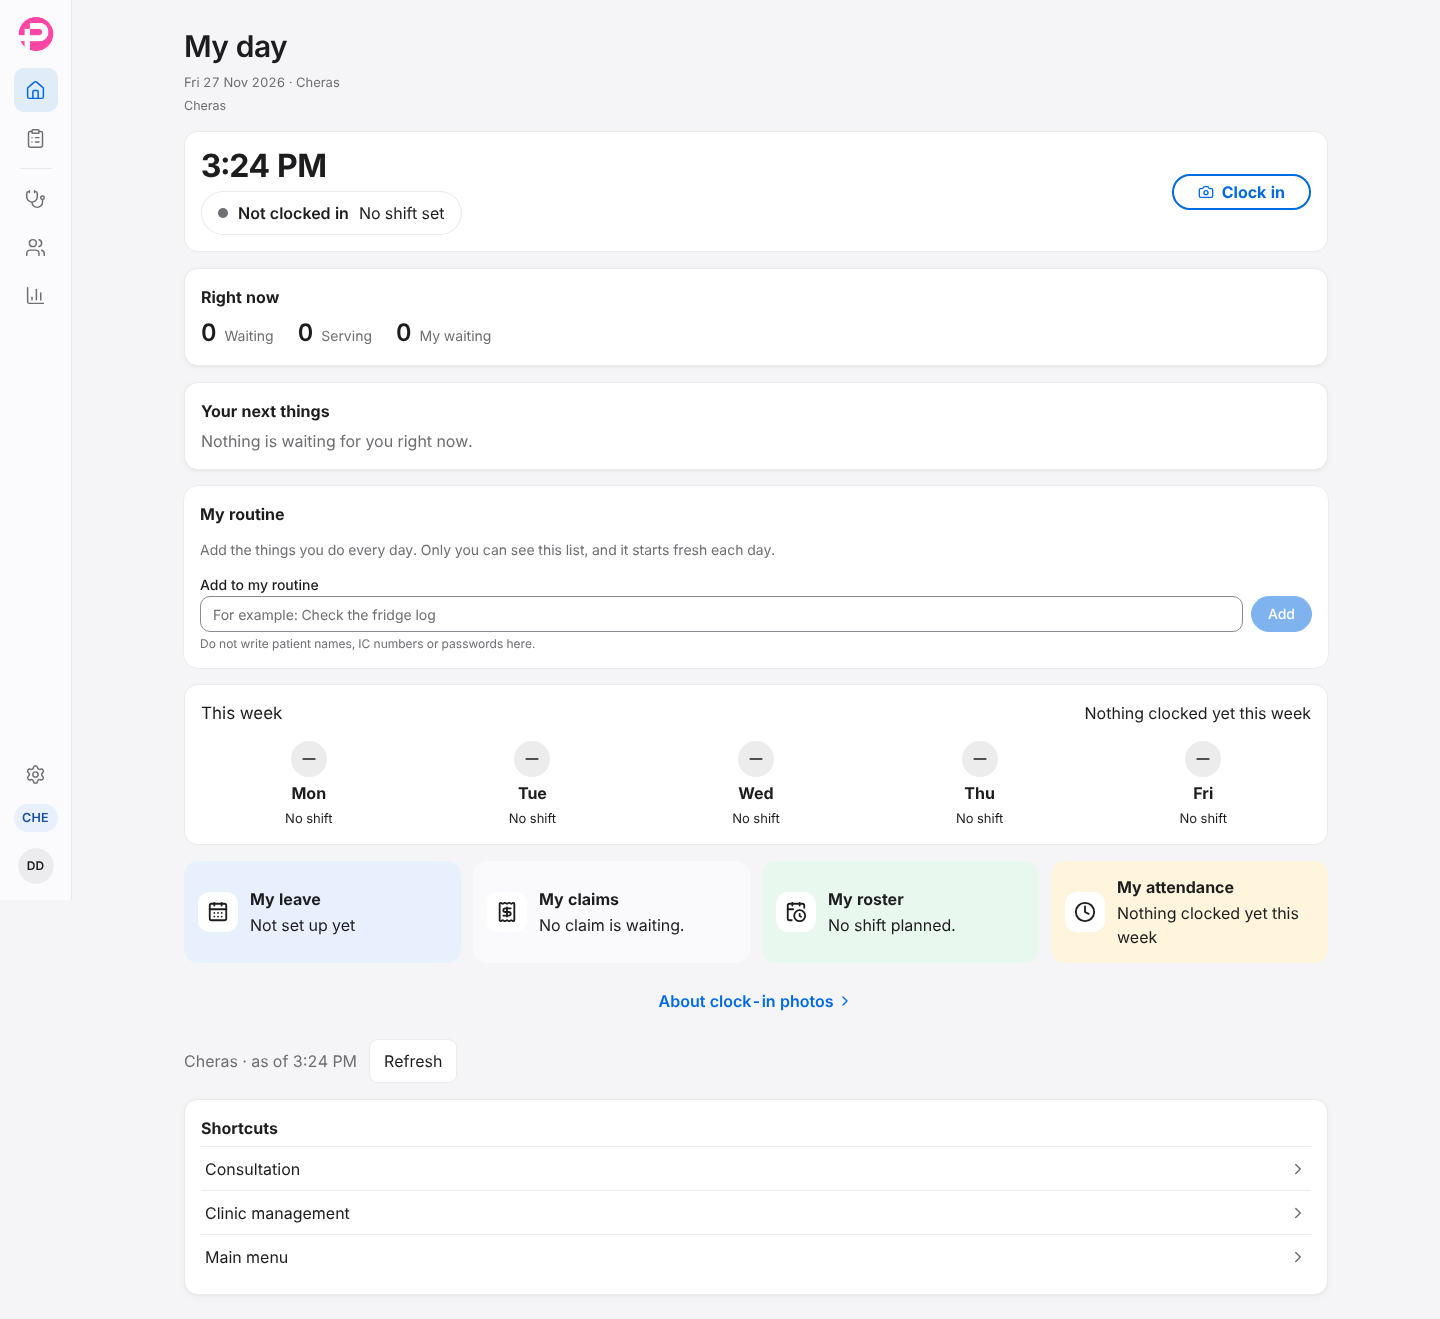
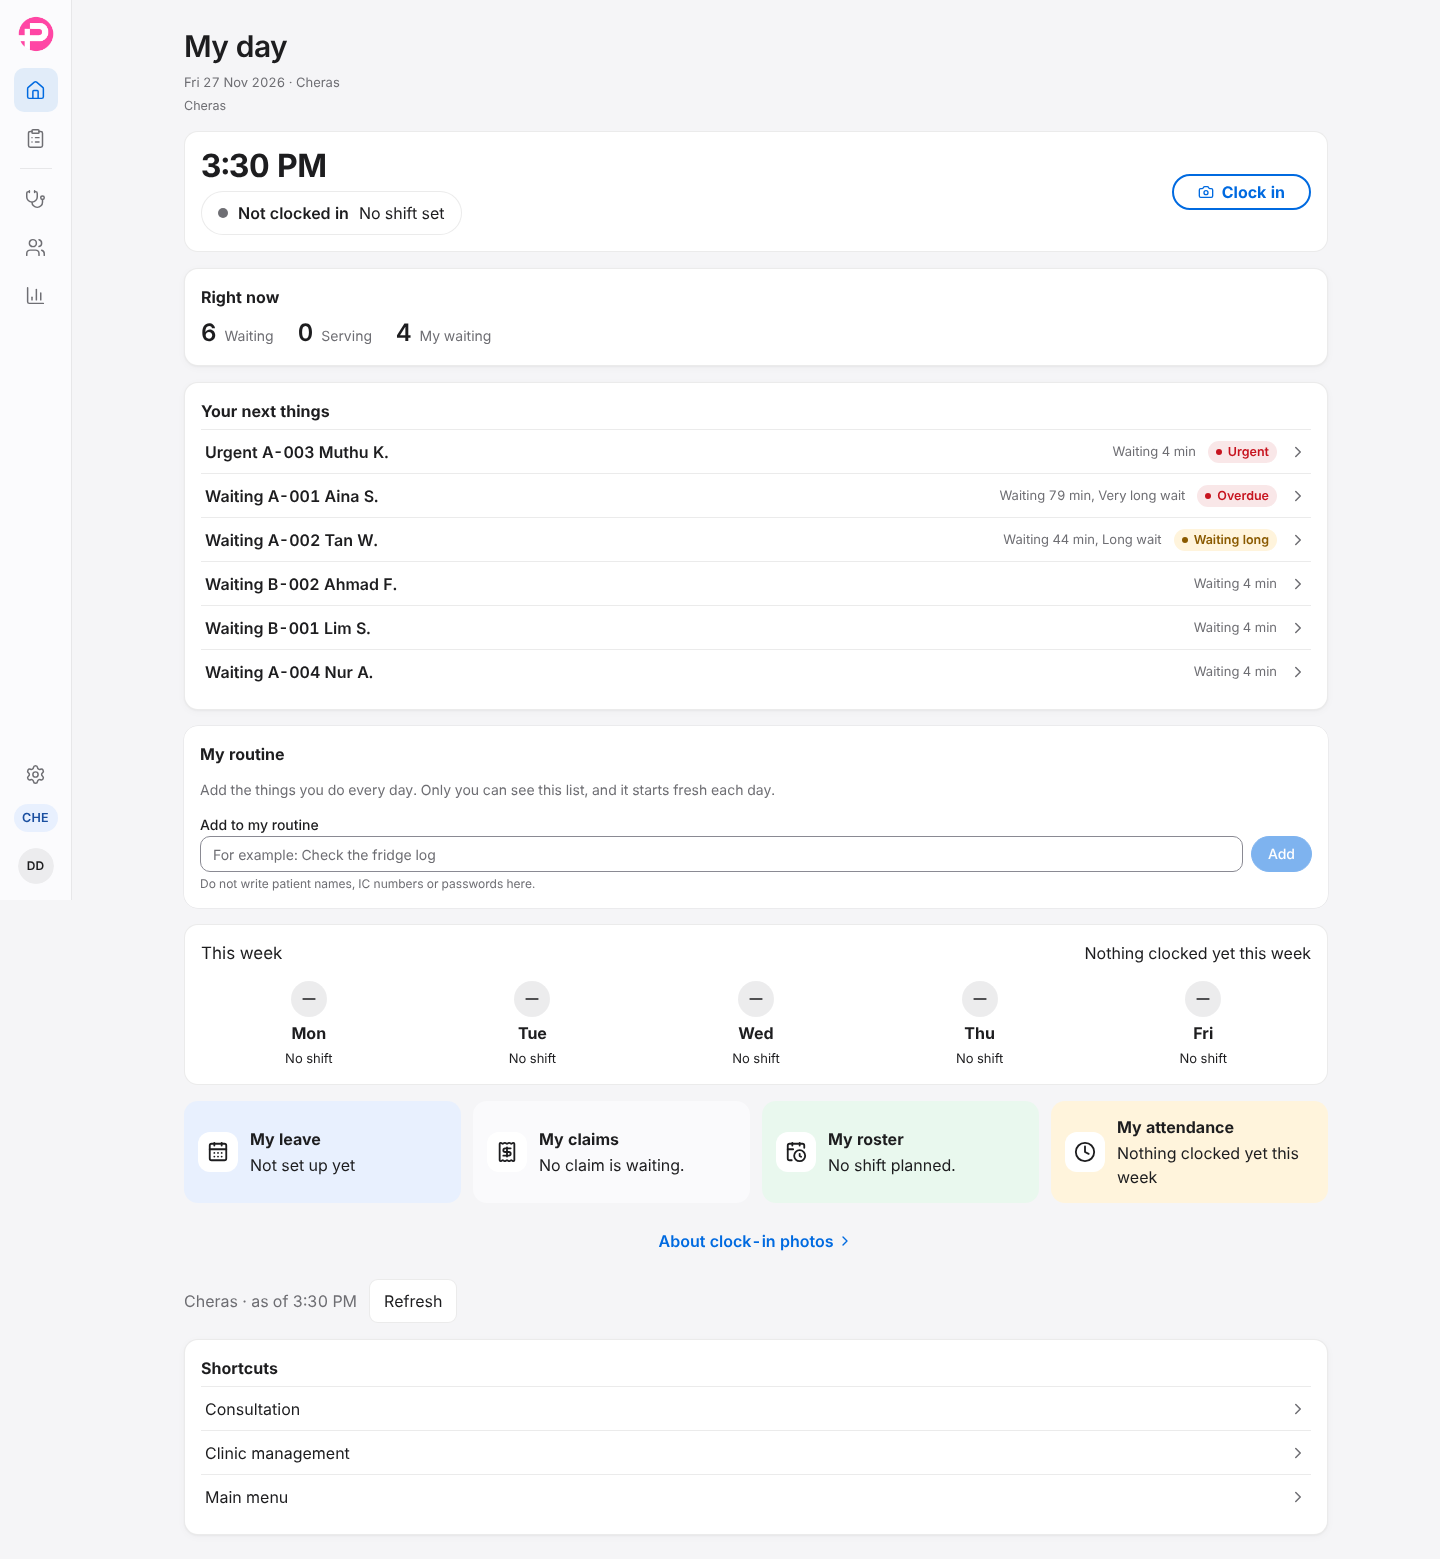
Re-shoot My day screenshots with waiting visits seeded
Claude-Session: https://claude.ai/code/session_01MHFmnZdtSucq8frKshn3kp

diff --git a/docs/validation/clean-look-homes-shots/README.md b/docs/validation/clean-look-homes-shots/README.md
@@ -1,6 +1,8 @@
 # Clean Look homes: My day screenshots (for Daniel's review)
 
-Source: PR #1135, head `e7cb7db7`, taken 27 Nov 2026 against a task-owned synthetic database (presentation seed, no visits).
-Roles: CA, CA Supervisor, Resident Doctor. Light and dark, 1440 px and 390 px (full page, 390 at 2x).
-Counts are zero and "Your next things" shows its empty state because the seed creates no visits; a populated state is not shown yet.
-Known, not changed here: the branch name appears twice in the header (date line and branch subline).
+Source: PR #1135, head `a0a73f5d`, 27 Nov 2026, a task-owned synthetic database (presentation and demo-setup seed, then 6 waiting visits).
+Roles: CA, CA Supervisor, Resident Doctor (all at Cheras after the demo setup). Light and dark, 1440 px and 390 px (full page, 390 at 2x).
+Populated state: 4 consultation patients (one urgent, one waiting about 79 min = Overdue, one about 44 min = Waiting long) and 2 OTC patients.
+These shots caught two bugs, fixed in this head: a doctor saw each own-queue patient twice, and an urgent patient was badged Overdue.
+Known, not changed here: the branch name appears twice in the My day header (date line and branch subline).
+Not shown: Serving, To dispense and To collect states, and the CA Supervisor approvals card.
